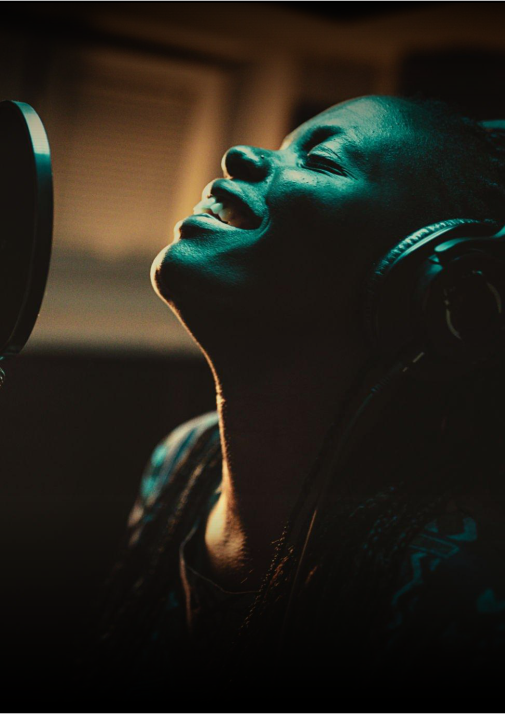
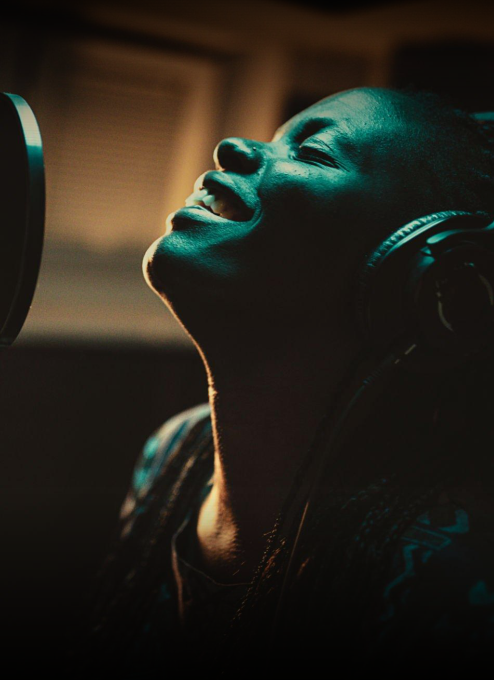
updated commit

diff --git a/src/components/Hero.jsx b/src/components/Hero.jsx
@@ -20,7 +20,7 @@ const Hero = () => {
       }else{
         setCurrentSlide(currentSlide+1)
       }
-    },3500)
+    },4000)
     return () => clearTimeout(timer)
   }, [currentSlide])
 
@@ -29,14 +29,14 @@ const Hero = () => {
     backgroundSize: 'cover',
     height: '100vh',
     width: '100vw',
-    transition: 'background 0.5s ease-in',
+    transition: 'background 0.3s ease-in',
   }
   const bgImageStyle2 = {
     backgroundImage: `url(${imageSlide2[currentSlide].url})`,
     backgroundSize: 'cover',
     height: '100vh',
     width: '100vw',
-    transition: 'background 0.5s ease-in',
+    transition: 'background 0.3s ease-in',
   }
   const goToNext = (currentSlide)=>{
     setCurrentSlide(currentSlide)

diff --git a/src/components/data3.js b/src/components/data3.js
@@ -20,7 +20,7 @@ const imageSlide2 = [
         title: 'Connect.  Innovate.  Impact',
     },
     {
-        url: 'https://drive.google.com/uc?export=download&id=1TXWMvazeewDOKYdVbwxFLywjt7xwRpNV',
+        url: 'https://drive.google.com/uc?export=download&id=1hrgz2VEINWKY1CAlDqnXJUY14x_jgHHd',
         url2: 'emp.png',
         title: '',
     }
